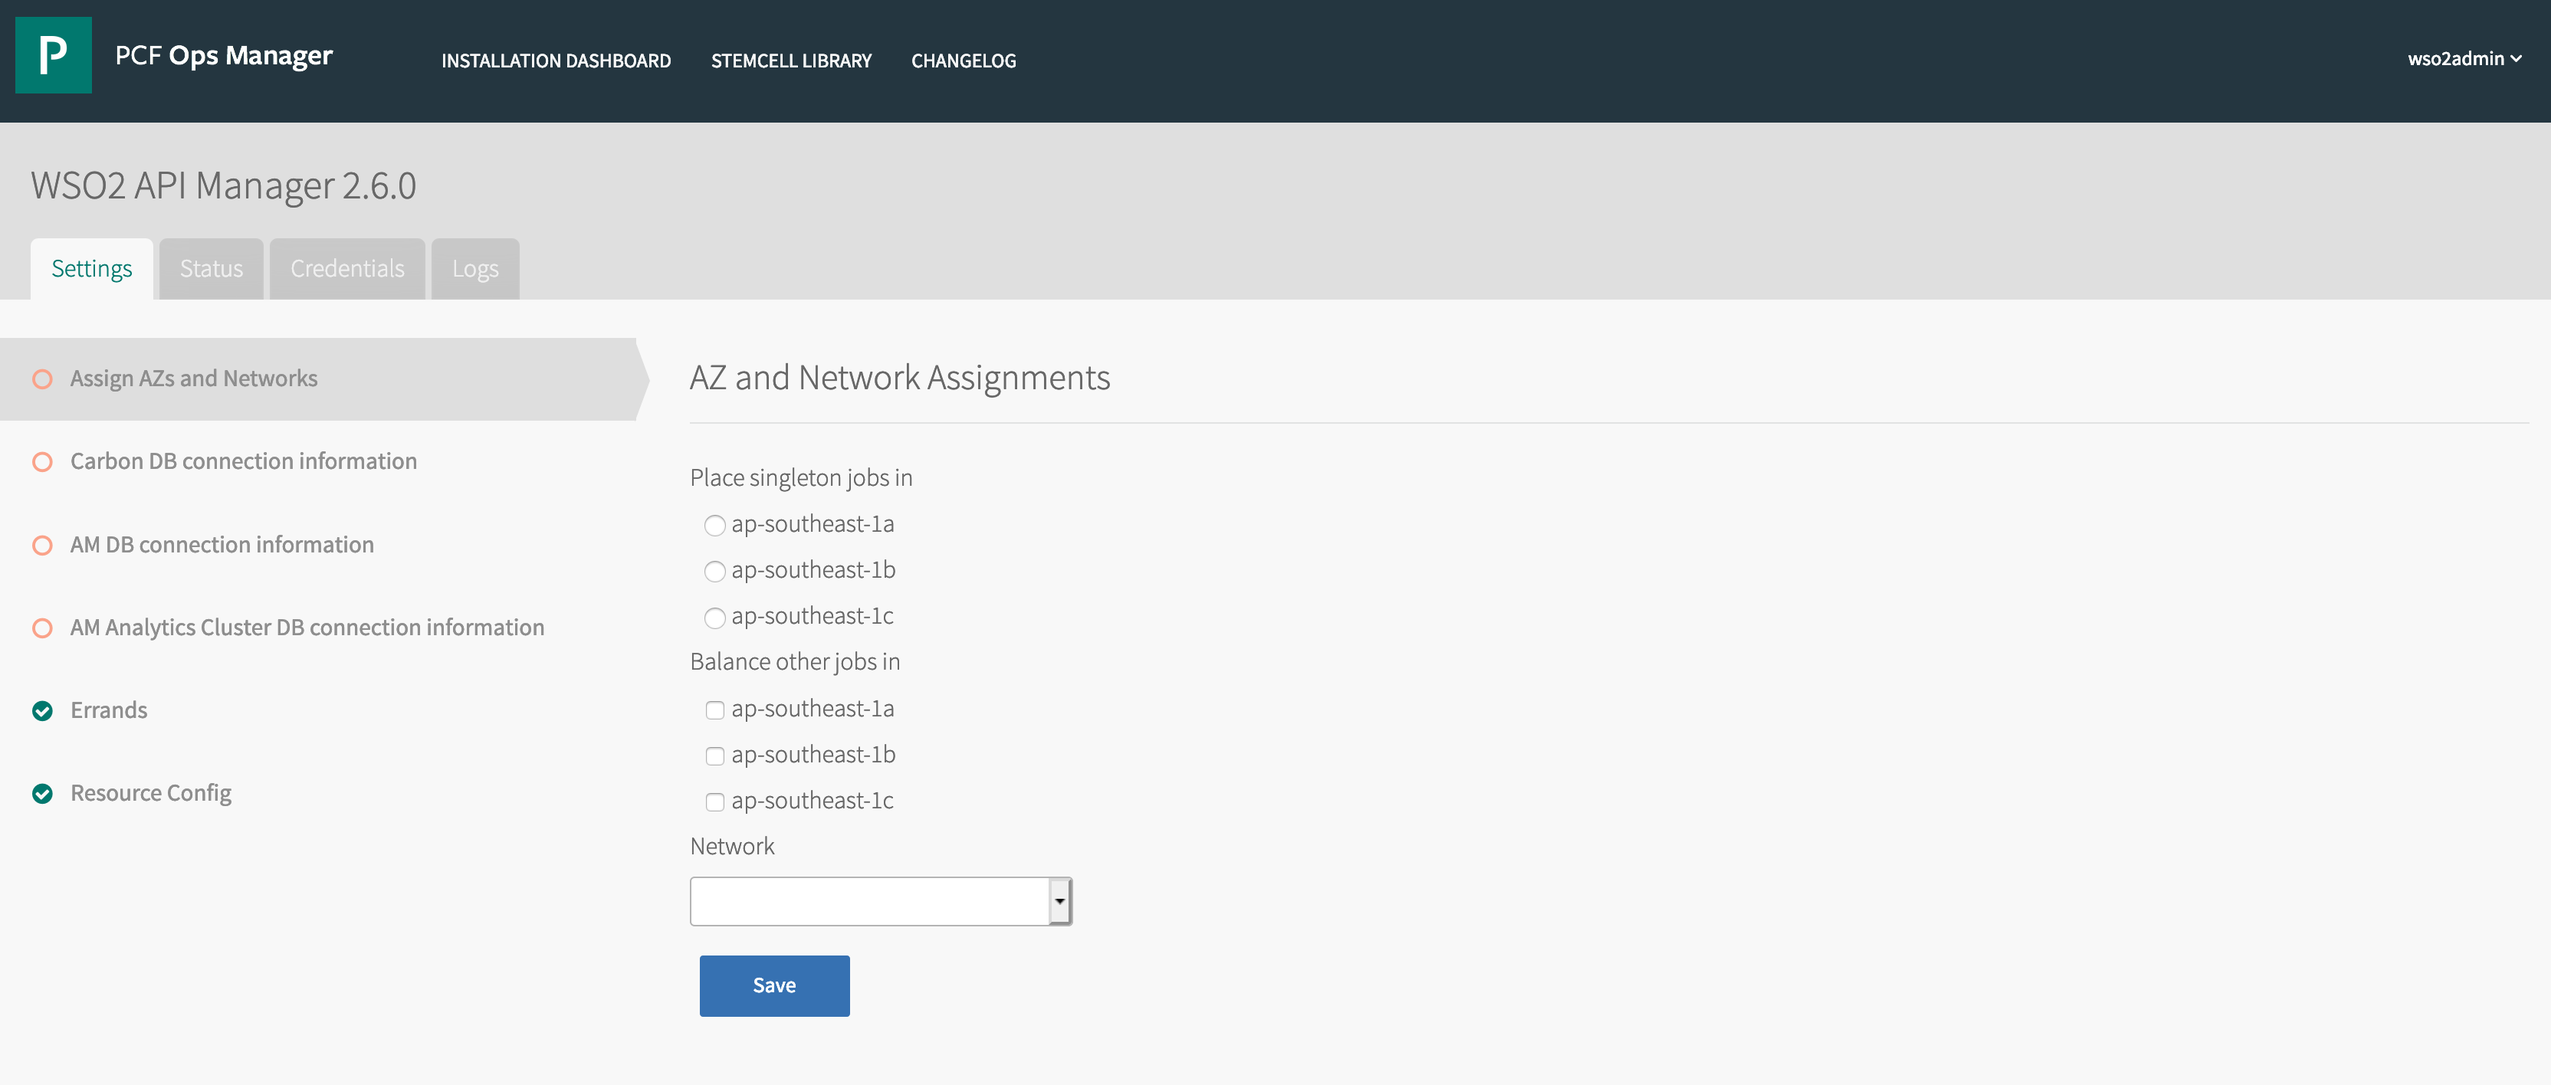
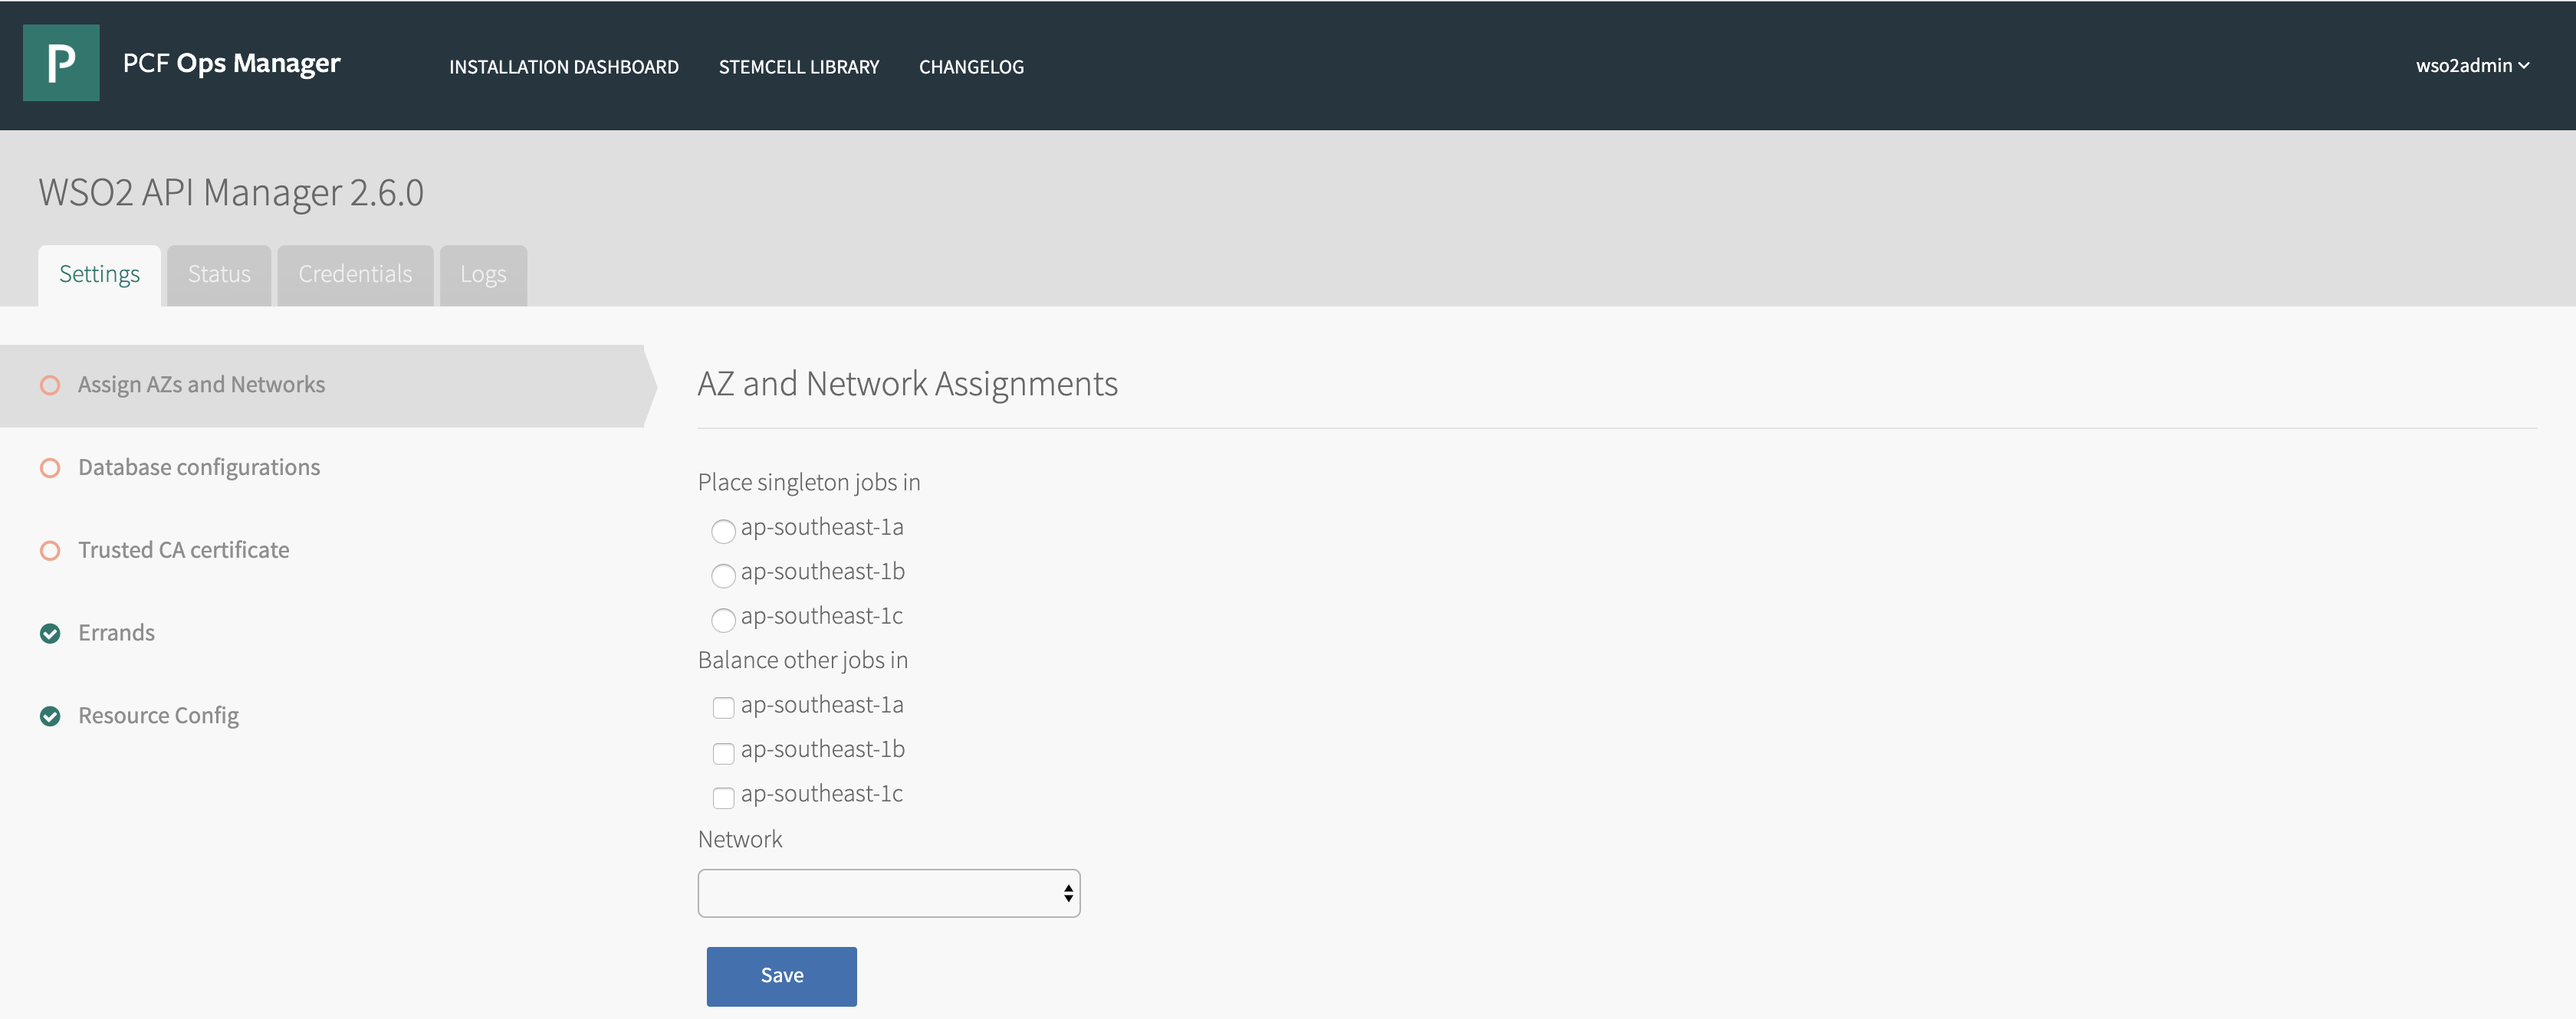
Modify readme with trusted ca configs

diff --git a/pattern-2/README.md b/pattern-2/README.md
@@ -16,18 +16,18 @@ The first step in running API Manager on PCF is creating a BOSH release. The fol
     git clone https://github.com/wso2/pivotal-cf-apim.git
     ```
     API Manager contains five main components named Publisher, Store, Gateway, Traffic Manager, and Key Manager. In a stand-alone APIM setup, these components are deployed in a single server. However, in a typical production setup, they need to be deployed in separate servers for better performance. Installing and configuring each or selected component/s in different servers is known as a distributed setup.
-    
+
     There are multiple ways in which these distributed setups can be arranged. These are known as [Deployment Patterns](https://docs.wso2.com/display/AM260/Deployment+Patterns#DeploymentPatterns-WSO2APIManagerdeploymentpatterns). The PCF resources for API Manager currently support Pattern 1 and Pattern 2.
-        
+
     The Deployment Architecture for Pattern 2 is as follows:
-    
+
     ![pattern-2](images/pattern-2.png "Pattern 2")
-    
+
 2. Add distributions required to run Pattern 2 as follows:
     1. Navigate to the `pattern-2` directory by issuing the following command.
         ```bash
         cd pivotal-cf-apim/pattern-2
-        ls 
+        ls
         ```
         Observe that there are two subdirectories named `bosh-release` and `tile` within this directory.
     2. Navigate into the `bosh-release` directory to view all of the resources required to deploy API Manager Pattern 2 on PCF.
@@ -39,20 +39,20 @@ The first step in running API Manager on PCF is creating a BOSH release. The fol
         * [wso2am-2.6.0.zip](https://wso2.com/api-management/install/)
         * [wso2am-analytics-2.6.0.zip](https://wso2.com/api-management/install/analytics/)
         * [wso2is-km-5.7.0.zip](https://wso2.com/api-management/install/key-manager/)
-        
+
         JDBC Drivers for MySQL and MS SQL are added into the `dist` directory to add flexibility to the deployment. The tile cannot be changed once created, as the tile is immutable. However, options to switch between different databases can be provided.
-        
+
         Similarly, Pattern 2 has defined a default key manager packaged with API Manager. However, if a user requires WSO2 Identity Server to be used as the Key Manager, it can be defined in the `pattern-2/tile/tile.yml` file.
-        
+
 3. Create the BOSH release
-    
+
     In order to create the BOSH release, the resource provides two scripts with the deployment. The scripts must be run in the following order:
     ```bash
     ./create.sh
     ```
-    
+
     This may take up to 20 minutes. After the build is complete, a bosh-release is completed in the root of the `bosh-deployment` directory.  This release pack is named `wso2am-2.6.0-bosh-release.tgz`.
-    
+
 ## Building the Pivotal Tile for API Manager
 1. Add the [routing-release](https://github.com/cloudfoundry/routing-release/releases/tag/0.178.0) provided by PCF to the root of the `tile` directory. This delivers HTTP and TCP routing for Cloud Foundry.
 2. Copy the bosh release from the `bosh-release` directory into the `tile` directory by issuing the following command.
@@ -66,70 +66,114 @@ The first step in running API Manager on PCF is creating a BOSH release. The fol
     ./build.sh
     ```
     The build process takes up to 5 minutes. After the build is complete, a tile named `wso2apim-tile-0.0.1.pivotal` is created in the root of the `/tile/product` directory.
-    
+
 ## Install API Manager in PCF
 1. Log in to PCF Ops Manager and upload the tile built by clicking **Import a Product**.
 2. After the tile is uploaded, add the tile to the PCF environment by clicking the + icon next to it.
 3. After the tile is added to the environment, click on the **API Manager** tile in the PCF environment to add configurations to the setup.
     ![API-Manager](images/new-tile.png "API Manager Tile")
-4. Set up the API Manager tile.
-    1. AZ and Network Assignments Page:
-        ![az-network-assignments](images/az-assignment.png "AZs and Network Assignments")
-        * Place singleton jobs in: Select the AZ in which the API Manager VM needs to run. The broker runs as a singleton job
-        * Balance other jobs in: Select any combination of AZs.
-        * Network: Select pcf-pas-network
-        
+4. Set up and deploy the API Manager tile.
+
+    i. AZ and Network Assignments Page:
+      ![az-network-assignments](images/az-assignment.png "AZs and Network Assignments")
+
+      * Place singleton jobs in: Select the AZ in which the API Manager VM needs to run. The broker runs as a singleton job
+
+      * Balance other jobs in: Select any combination of AZs.
+
+      * Network: Select pcf-pas-network
+
         Click Save.
-    2. Registry Database Connection Information:
-        * **JDBC URL**:
-            * **MySQL**: `jdbc:mysql://<hostname>:<port>/<db_name>?autoReconnect=true&amp;useSSL=false`
-            * **MS SQL**: `jdbc:sqlserver://<hostname>:<port>;databaseName=<db_name>;`
-        * **Driver Class Name**: Select the class name of the JDBC driver relevant to the database being used.
-        * **Validation Query**: `SELECT 1`
-        * **Username**: Username for database
-        * **Password**: Password for database
-        
-        Click Save.
-    3. User Management Database Connection Information:
-        * **JDBC URL**:
-            * **MySQL**: `jdbc:mysql://<hostname>:<port>/<db_name>?autoReconnect=true&amp;useSSL=false`
-            * **MS SQL**: `jdbc:sqlserver://<hostname>:<port>;databaseName=<db_name>;`
-        * **Driver Class Name**: Select the class name of the JDBC driver relevant to the database being used.
-        * **Validation Query**: `SELECT 1`
-        * **Username**: Username for database
-        * **Password**: Password for database
-            
-            Click Save.
-    4. API Manager Database Connection Information:
-        * **JDBC URL**:
-            * **MySQL**: `jdbc:mysql://<hostname>:<port>/<db_name>?autoReconnect=true&amp;useSSL=false`
-            * **MS SQL**: `jdbc:sqlserver://<hostname>:<port>;databaseName=<db_name>;`
-        * **Driver Class Name**: Select the class name of the JDBC driver relevant to the database being used.
-        * **Validation Query**: `SELECT 1`
-        * **Username**: Username for database
-        * **Password**: Password for database
-        
-        Click Save.
-    5. API Manager - Analytics Clustering Database connection information
-        * **JDBC URL**:
-            * **MySQL**: `jdbc:mysql://<hostname>:<port>/<db_name>?autoReconnect=true&useSSL=false`
-            * **MS SQL**: `jdbc:sqlserver://<hostname>:<port>;databaseName=<db_name>;`
-        * **Driver Class Name**: Select the class name of the JDBC driver relevant to the database being used.
-        * **Validation Query**: `SELECT 1`
-        * **Username**: Username for database
-        * **Password**: Password for database
-        
-        Note that the JDBC URL for MySQL does not contain `&amp;`. Instead, it indicates the `&` symbol. This is due to the fact that the first two configurations save the configuration data in XML format, and `&amp;` is used as an escape character. However, this configuration stores its data in YAML and therefore, an escape character is not required.
-        
-        Click Save.
-        
-    6. Return to the **Installation Dashboard** in Ops Manager and click **Review Pending Changes**.
+
+    ii. Database configurations
+
+     ![datasource-configs](images/datasource-configs.png "Database configurations")
+
+    * Registry Database Connection Information:
+
+      - **JDBC URL**:
+          * **MySQL**: `jdbc:mysql://<hostname>:<port>/<db_name>?autoReconnect=true&amp;useSSL=false`
+          * **MS SQL**: `jdbc:sqlserver://<hostname>:<port>;databaseName=<db_name>;`
+      - **Driver Class Name**: Select the class name of the JDBC driver relevant to the database being used.
+      - **Validation Query**: `SELECT 1`
+      - **Username**: Username for database
+      - **Password**: Password for database
+
+    * User Management Database Connection Information:
+
+      - **JDBC URL**:
+          * **MySQL**: `jdbc:mysql://<hostname>:<port>/<db_name>?autoReconnect=true&amp;useSSL=false`
+          * **MS SQL**: `jdbc:sqlserver://<hostname>:<port>;databaseName=<db_name>;`
+      - **Driver Class Name**: Select the class name of the JDBC driver relevant to the database being used.
+      - **Validation Query**: `SELECT 1`
+      - **Username**: Username for database
+      - **Password**: Password for database
+
+    * API Manager Database Connection Information:
+
+      - **JDBC URL**:
+          * **MySQL**: `jdbc:mysql://<hostname>:<port>/<db_name>?autoReconnect=true&amp;useSSL=false`
+          * **MS SQL**: `jdbc:sqlserver://<hostname>:<port>;databaseName=<db_name>;`
+      - **Driver Class Name**: Select the class name of the JDBC driver relevant to the database being used.
+      - **Validation Query**: `SELECT 1`
+      - **Username**: Username for database
+      - **Password**: Password for database
+
+    * API Manager Analytics Database connection information:
+
+      - **JDBC URL**:
+          * **MySQL**: `jdbc:mysql://<hostname>:<port>/<db_name>?autoReconnect=true&useSSL=false`
+          * **MS SQL**: `jdbc:sqlserver://<hostname>:<port>;databaseName=<db_name>;`
+      - **Driver Class Name**: Select the class name of the JDBC driver relevant to the database being used.
+      - **Validation Query**: `SELECT 1`
+      - **Username**: Username for database
+      - **Password**: Password for database
+
+    Note that the JDBC URL for MySQL does not contain `&amp;`. Instead, it indicates the `&` symbol. This is due to the fact that the first two configurations save the configuration data in XML format, and `&amp;` is used as an escape character. However, this configuration stores its data in YAML and therefore, an escape character is not required.
+
+    * API Manager Analytics cluster Database connection information:
+
+      - **JDBC URL**:
+          * **MySQL**: `jdbc:mysql://<hostname>:<port>/<db_name>?autoReconnect=true&useSSL=false`
+          * **MS SQL**: `jdbc:sqlserver://<hostname>:<port>;databaseName=<db_name>;`
+      - **Driver Class Name**: Select the class name of the JDBC driver relevant to the database being used.
+      - **Validation Query**: `SELECT 1`
+      - **Username**: Username for database
+      - **Password**: Password for database
+
+    Note that the JDBC URL for MySQL does not contain `&amp;`. Instead, it indicates the `&` symbol. This is due to the fact that the first two configurations save the configuration data in XML format, and `&amp;` is used as an escape character. However, this configuration stores its data in YAML and therefore, an escape character is not required.
+
+    * API Manager Analytics persistence Database connection information:
+
+      - **JDBC URL**:
+          * **MySQL**: `jdbc:mysql://<hostname>:<port>/<db_name>?autoReconnect=true&useSSL=false`
+          * **MS SQL**: `jdbc:sqlserver://<hostname>:<port>;databaseName=<db_name>;`
+      - **Driver Class Name**: Select the class name of the JDBC driver relevant to the database being used.
+      - **Validation Query**: `SELECT 1`
+      - **Username**: Username for database
+      - **Password**: Password for database
+
+    Note that the JDBC URL for MySQL does not contain `&amp;`. Instead, it indicates the `&` symbol. This is due to the fact that the first two configurations save the configuration data in XML format, and `&amp;` is used as an escape character. However, this configuration stores its data in YAML and therefore, an escape character is not required.
+
+      Click Save.
+
+    iii. Trusted CA certificate
+    ![ca-cert](images/ca-cert.png "Trusted CA certificate")
+
+    Add the trusted certificate of the domain here.
+
+    Click save.
+
+    iv. Return to the **Installation Dashboard** in Ops Manager and click **Review Pending Changes**.
         ![review-changes](images/review-changes.png "Review Pending Changes")
-    7. Select the checkbox for API Manager and click **Apply Changes**.
+
+    v. Select the checkbox for API Manager and click **Apply Changes**.
         ![apply-changes](images/apply-changes.png "Apply Changes")
-        
-        The installation process may take around 25 minutes. After the installation is complete, the management console, publisher, and store can be accessed via the following URLs where domain_name refers to the **domain name** of the PCF environment.
-        
-        * ``https://wso2apim.sys.<domain_name>/carbon/``
-        * ``https://wso2apim.sys.<domain_name>/publisher/``
-        * ``https://wso2apim.sys.<domain_name>/store/``
+
+      The installation process may take around 25 minutes. After the installation is complete, the management console, publisher, and store can be accessed via the following URLs where domain_name refers to the **domain name** of the PCF environment.
+
+      ```
+        * https://wso2apim.sys.<domain_name>/carbon/
+        * https://wso2apim.sys.<domain_name>/publisher/
+        * https://wso2apim.sys.<domain_name>/store/
+      ```
